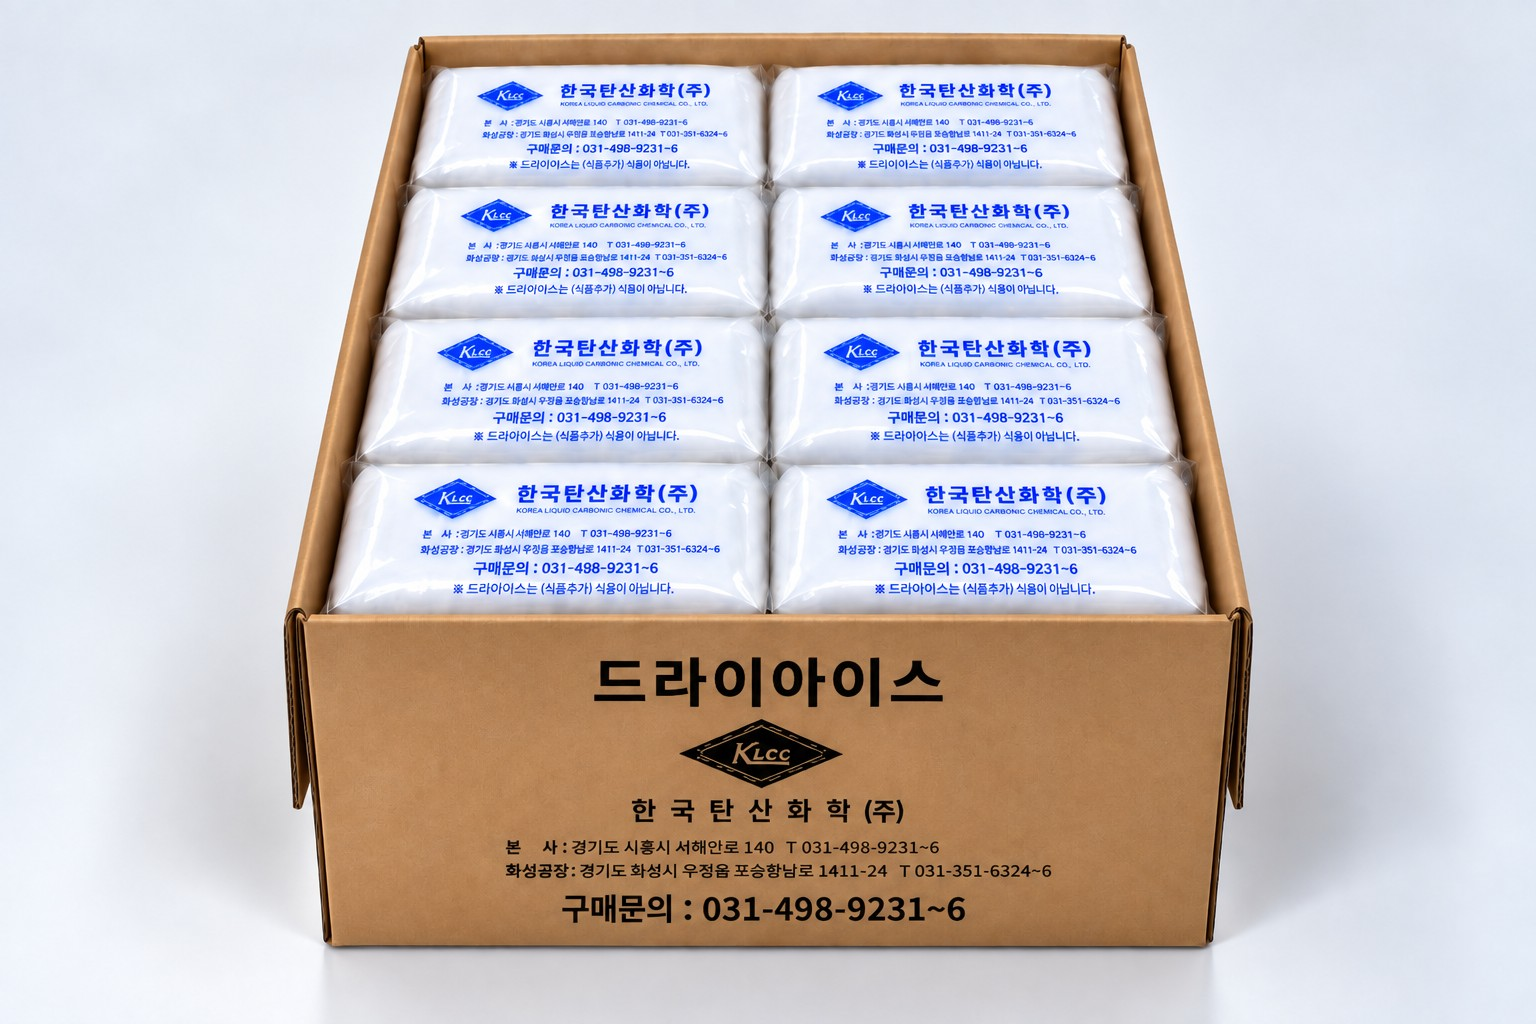
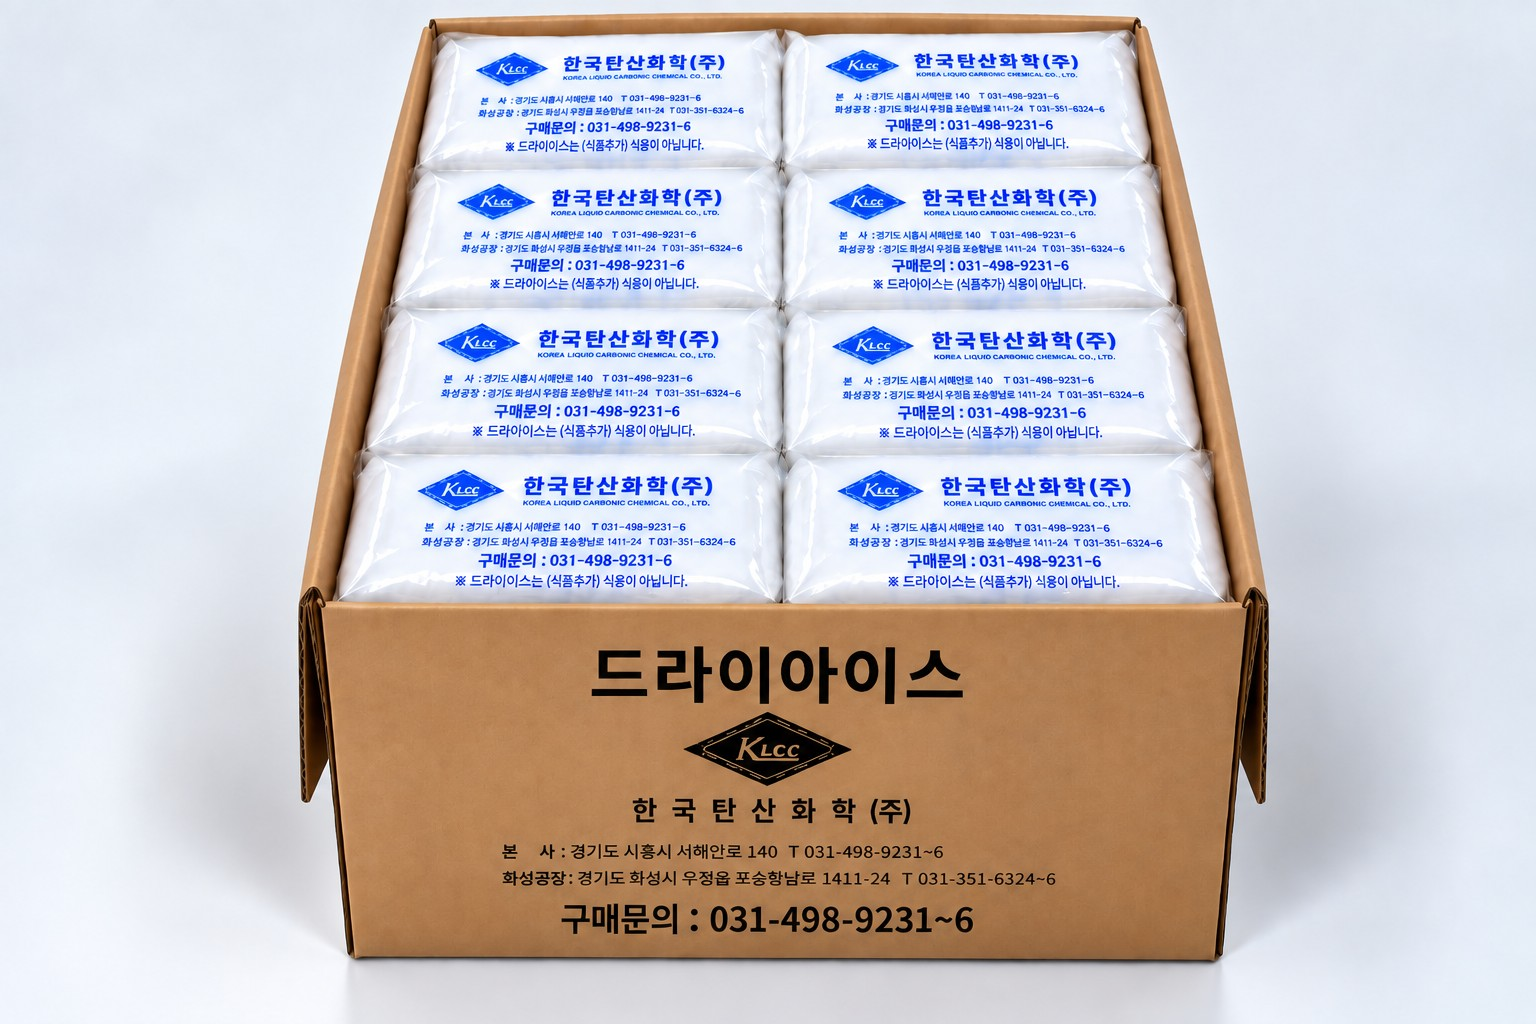
드라이아이스 48P BOX 포장 사진을 새 오픈박스 이미지로 교체. ice-box-pack ?v=20260911c

Changed region(s): [[0.1875, 0.0, 0.8438, 0.9688]]

diff --git a/products-ice.html b/products-ice.html
@@ -317,7 +317,7 @@
                   <h5 class="pkgspec__infotitle">포장 상세정보</h5>
                 </div>
                 <div class="pkgspec">
-                  <div class="pkgspec__photo"><img src="assets/images/site/ice-box-pack.jpg?v=20260911b" alt="한국탄산화학㈜ 48P 드라이아이스 박스 포장" loading="lazy"></div>
+                  <div class="pkgspec__photo"><img src="assets/images/site/ice-box-pack.jpg?v=20260911c" alt="한국탄산화학㈜ 48P 드라이아이스 박스 포장" loading="lazy"></div>
                   <div class="pkgspec__info">
                     <div class="pkgcard">
                     <ul class="pkgdetail">
